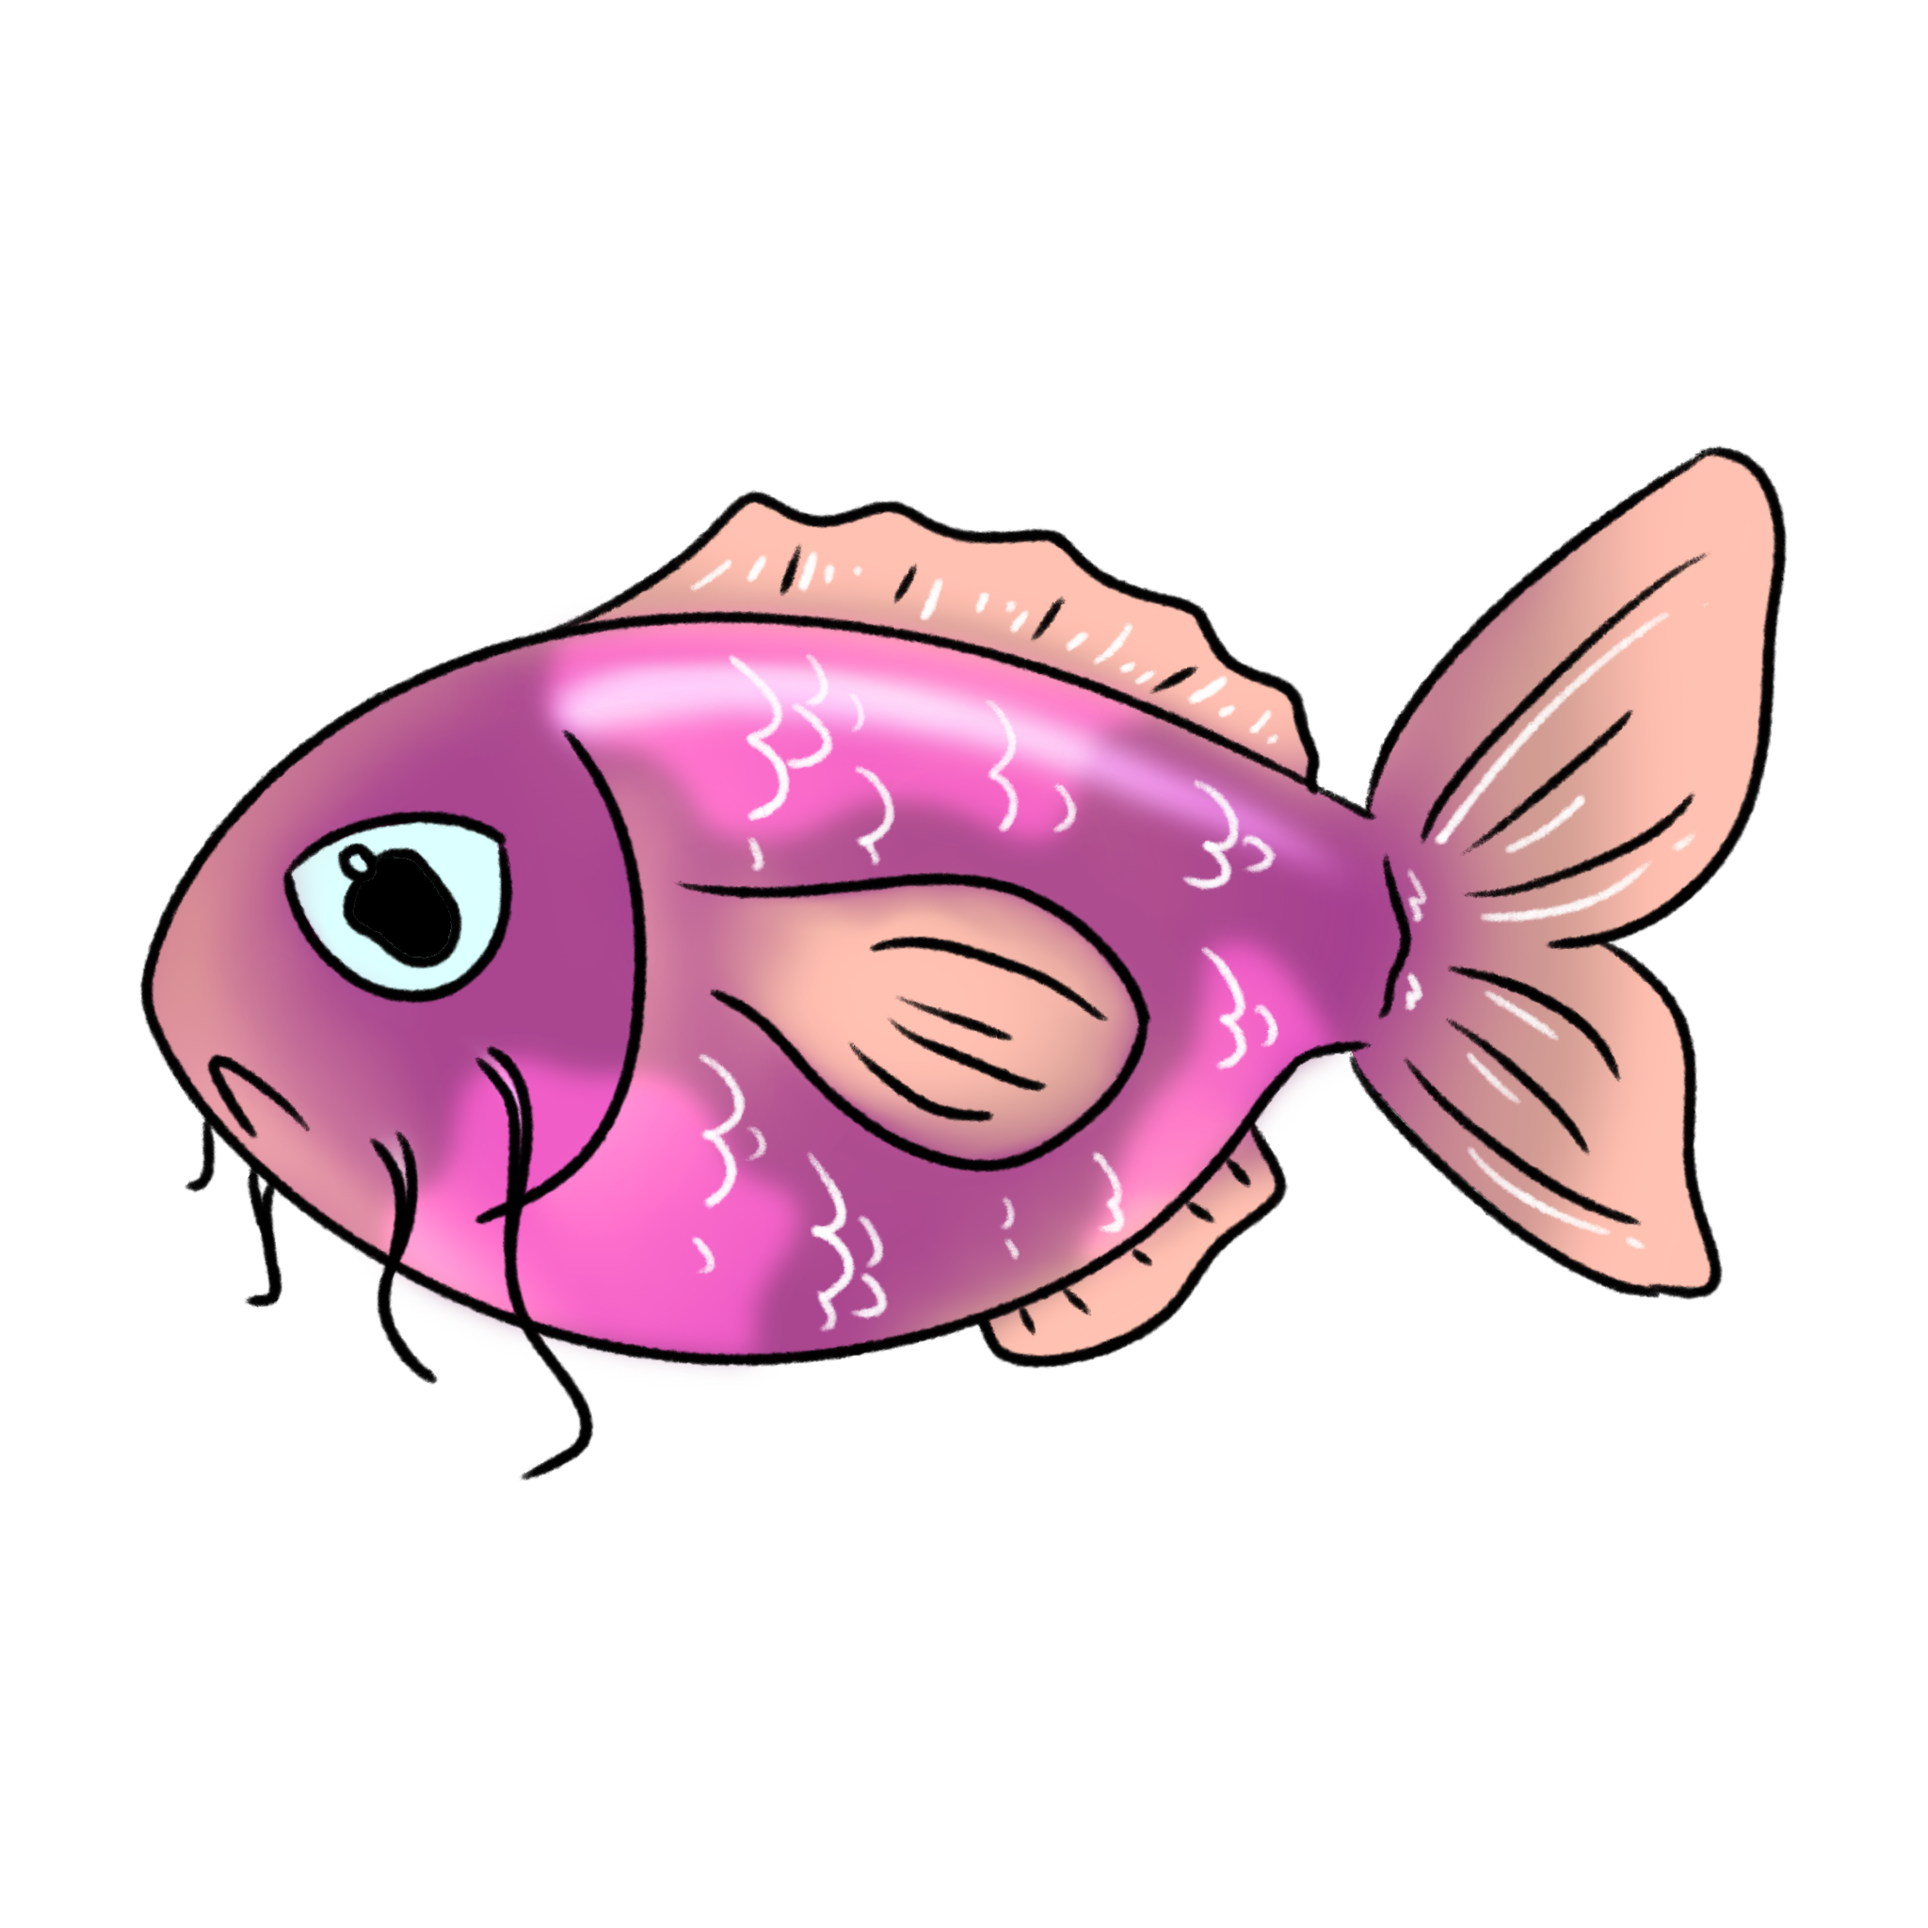
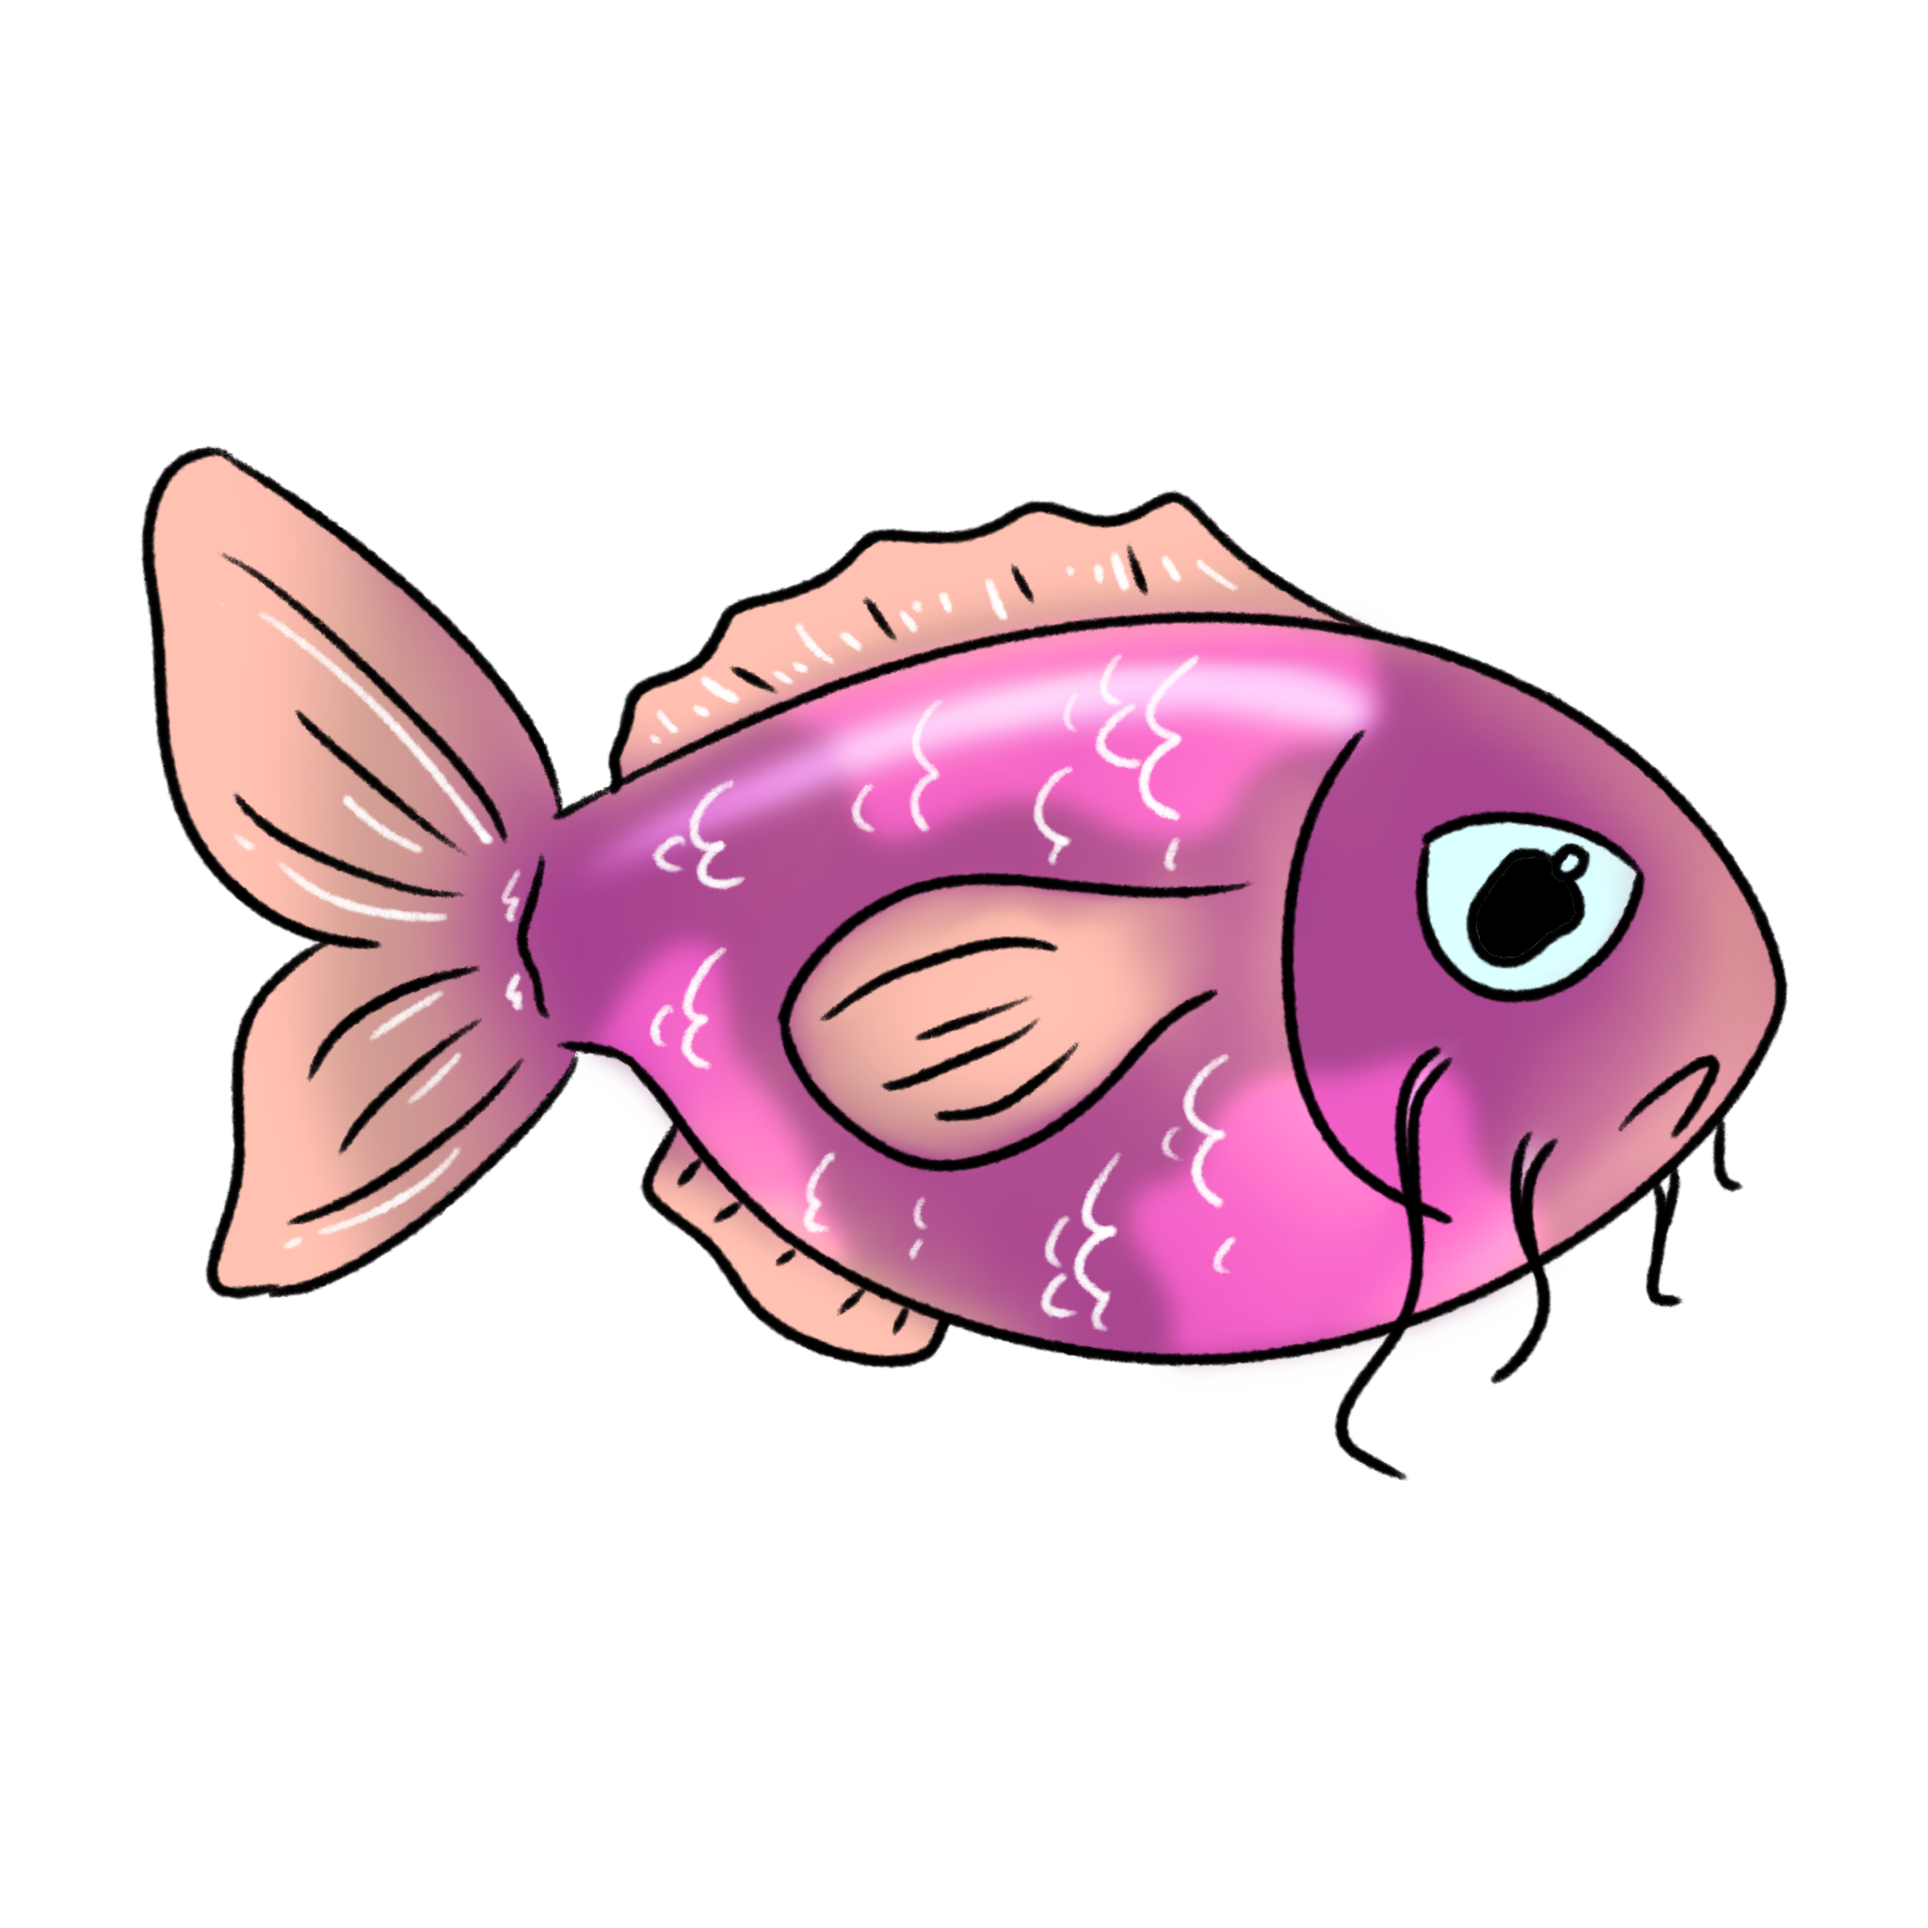
Fixed fish, and better crowd/money growth

Changed region(s): [[0.0625, 0.2188, 0.9375, 0.7812]]

diff --git a/Assets/Assets/Scripts/DailyReport/ReportManager.cs b/Assets/Assets/Scripts/DailyReport/ReportManager.cs
@@ -96,7 +96,7 @@ namespace Assets.Scripts.DailyReport
         {
             _entertainmentSum = _tankEntertainment + _decorationEntertainment;
 
-            float targetCrowdScore = _entertainmentSum * k;
+            float targetCrowdScore = Mathf.Sqrt(_entertainmentSum) * k;
             float crowdScoreTargetDelta = targetCrowdScore - _currentCrowdScore;
             float crowdScoreChange = crowdScoreTargetDelta * crowdGrowthRate;
 
